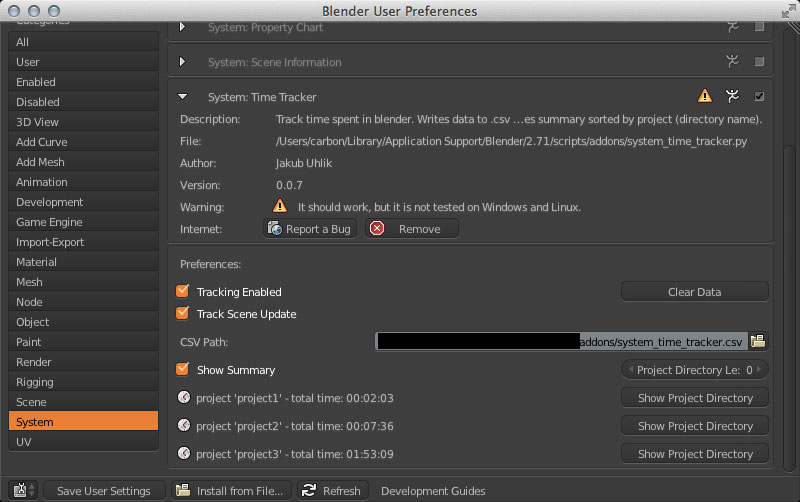
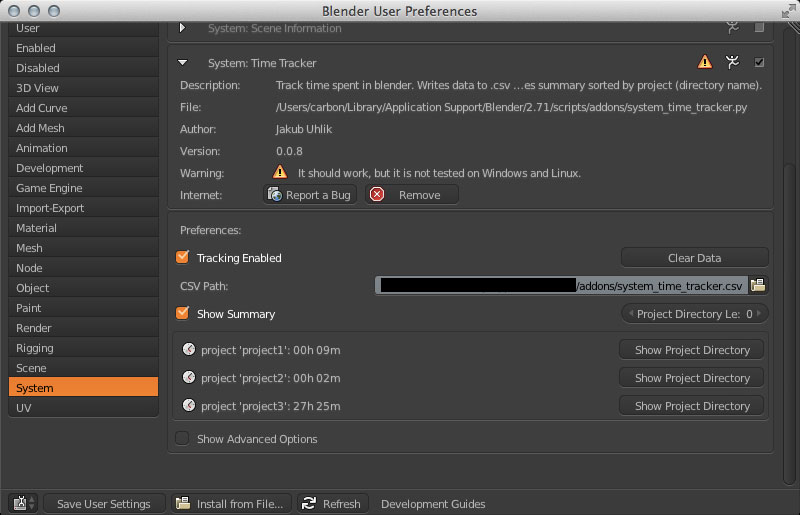
ui tweaks, more advanced options, minor bugfixes

diff --git a/system_time_tracker.py b/system_time_tracker.py
@@ -19,7 +19,7 @@
 bl_info = {"name": "Time Tracker",
            "description": "Track time spent in blender. Writes data to .csv and provides summary sorted by project (directory name).",
            "author": "Jakub Uhlik",
-           "version": (0, 0, 7),
+           "version": (0, 0, 8),
            "blender": (2, 71, 0),
            "location": "",
            "warning": "It should work, but it is not tested on Windows and Linux.",
@@ -63,6 +63,15 @@ class Utils():
         return '{:02}:{:02}:{:02}'.format(d // 3600, d % 3600 // 60, d % 60)
     
     @staticmethod
+    def format_time_summary(d):
+        return '{:02}h {:02}m'.format(d // 3600, d % 3600 // 60)
+    
+    @staticmethod
+    def format_time_summary_seconds(d):
+        # http://stackoverflow.com/a/13409708
+        return '{:02}h {:02}m {:02}s'.format(d // 3600, d % 3600 // 60, d % 60)
+    
+    @staticmethod
     def get_default_csv_path():
         return os.path.join(os.path.dirname(os.path.realpath(__file__)), "{0}.csv".format(os.path.splitext(os.path.split(os.path.realpath(__file__))[1])[0]))
     
@@ -103,13 +112,13 @@ def summary():
     # get modified time of csv
     tm = os.path.getmtime(p)
     
-    if(tm != Runtime.modified or prefs.level != Runtime.level):
-        # if it differs, read csv..
-        Runtime.modified = tm
-        Runtime.level = prefs.level
-    else:
-        # return already parsed results
-        return Runtime.summary
+    if(Runtime.summary is not None):
+        if(tm == Runtime.modified and prefs.level == Runtime.level):
+            # return already parsed results
+            return Runtime.summary
+    
+    Runtime.modified = tm
+    Runtime.level = prefs.level
     
     db = []
     with open(p) as f:
@@ -155,7 +164,10 @@ def summary():
         if(proj == ''):
             # substitute no directory by '/'
             proj = '/'
-        a.append([proj, Utils.format_time(s), d])
+        if(prefs.debug_show_seconds_in_summary):
+            a.append([proj, Utils.format_time_summary_seconds(s), d])
+        else:
+            a.append([proj, Utils.format_time_summary(s), d])
     
     # sort by project name
     a.sort(key=lambda v: v[0])
@@ -163,7 +175,7 @@ def summary():
     # and make strings
     r = []
     for i, l in enumerate(a):
-        r.append(["project '{0}' - total time: {1}".format(l[0], l[1]), l[2]])
+        r.append(["project '{0}': {1}".format(l[0], l[1]), l[2]])
     
     # store results, so it will not be calculated on each ui redraw
     Runtime.summary = r
@@ -218,11 +230,19 @@ def update(self, context):
 def scene_update_update(self, context):
     # great function name, isn't it?
     prefs = Utils.get_preferences()
+    Runtime.update_step = prefs.update_interval
+    # force summary update
+    Runtime.summary = None
     if(prefs.scene_update):
         _, _, u = Utils.find_handlers()
         h = bpy.app.handlers
         if(u == -1):
             h.scene_update_post.append(TIME_TRACKER_update_handler)
+    else:
+        _, _, u = Utils.find_handlers()
+        h = bpy.app.handlers
+        if(u != -1):
+            del h.scene_update_post[u]
 
 
 class TimeTrackerPreferences(bpy.types.AddonPreferences):
@@ -245,7 +265,9 @@ class TimeTrackerPreferences(bpy.types.AddonPreferences):
     level = bpy.props.IntProperty(name="Project Directory Level",
                                   description="Which level is considered as project directory. 0 is current directory, 1 is directory enclosing current directory, etc.",
                                   default=0,
-                                  min=0, )
+                                  min=0,
+                                  # 100 nested sub directories should be enough
+                                  max=100, )
     csv_path = bpy.props.StringProperty(name="CSV Path",
                                         description="Location of .csv with tracking data.",
                                         default=Utils.get_default_csv_path(),
@@ -255,10 +277,25 @@ class TimeTrackerPreferences(bpy.types.AddonPreferences):
     summary = bpy.props.BoolProperty(name="Show Summary",
                                      description="When enabled, shows tracked data bellow in simple format (project name - total time spent).",
                                      default=False, )
+    
+    # advanced options
+    show_advanced = bpy.props.BoolProperty(name="Show Advanced Options",
+                                           description="",
+                                           default=False, )
     scene_update = bpy.props.BoolProperty(name="Track Scene Update",
-                                          description="Track time spent on files closed without saving every 60 seconds.",
+                                          description="Track time spent on files closed without saving using scene_update_post handler.",
                                           update=scene_update_update,
-                                          default=False, )
+                                          default=True, )
+    update_interval = bpy.props.IntProperty(name="Update Interval In Seconds",
+                                            description="Interval at which scene_update_post handler is processed.",
+                                            update=scene_update_update,
+                                            default=60,
+                                            min=1,
+                                            max=60 * 10, )
+    debug_show_seconds_in_summary = bpy.props.BoolProperty(name="Show Seconds In Summary",
+                                                           description="",
+                                                           update=scene_update_update,
+                                                           default=False, )
     
     def draw(self, context):
         l = self.layout
@@ -266,7 +303,6 @@ class TimeTrackerPreferences(bpy.types.AddonPreferences):
         s = r.split(percentage=0.75)
         c = s.column()
         c.prop(self, "enabled")
-        c.prop(self, "scene_update")
         c = s.column()
         c.operator("wm.time_tracker_clear_data", )
         r = l.row()
@@ -288,13 +324,23 @@ class TimeTrackerPreferences(bpy.types.AddonPreferences):
             if(len(a) == 0):
                 r = l.row()
                 r.label("No data tracked yet.", icon='ERROR', )
-            for i in a:
+            else:
                 r = l.row()
-                s = r.split(percentage=0.75)
-                c = s.column()
-                c.label(i[0], icon='TIME', )
-                c = s.column()
-                c.operator("wm.time_tracker_show_project_directory", ).directory = i[1]
+                b = r.box()
+                for i in a:
+                    r = b.row()
+                    s = r.split(percentage=0.75)
+                    c = s.column()
+                    c.label(i[0], icon='TIME', )
+                    c = s.column()
+                    c.operator("wm.time_tracker_show_project_directory", ).directory = i[1]
+        r = l.row()
+        r.prop(self, "show_advanced")
+        if(self.show_advanced):
+            r = l.row()
+            r.prop(self, "debug_show_seconds_in_summary")
+            r.prop(self, "scene_update")
+            r.prop(self, "update_interval")
 
 
 class WM_OT_time_tracker_show_project_directory(bpy.types.Operator):
